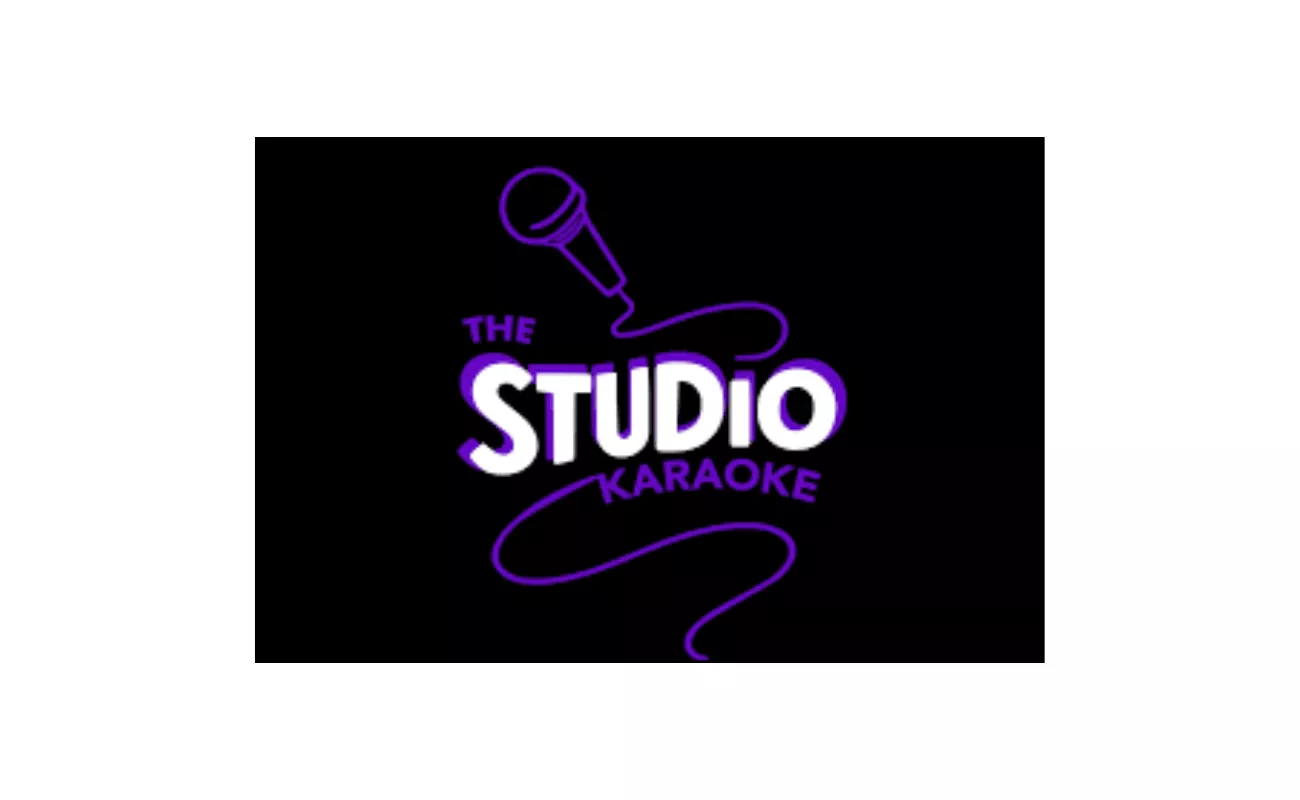
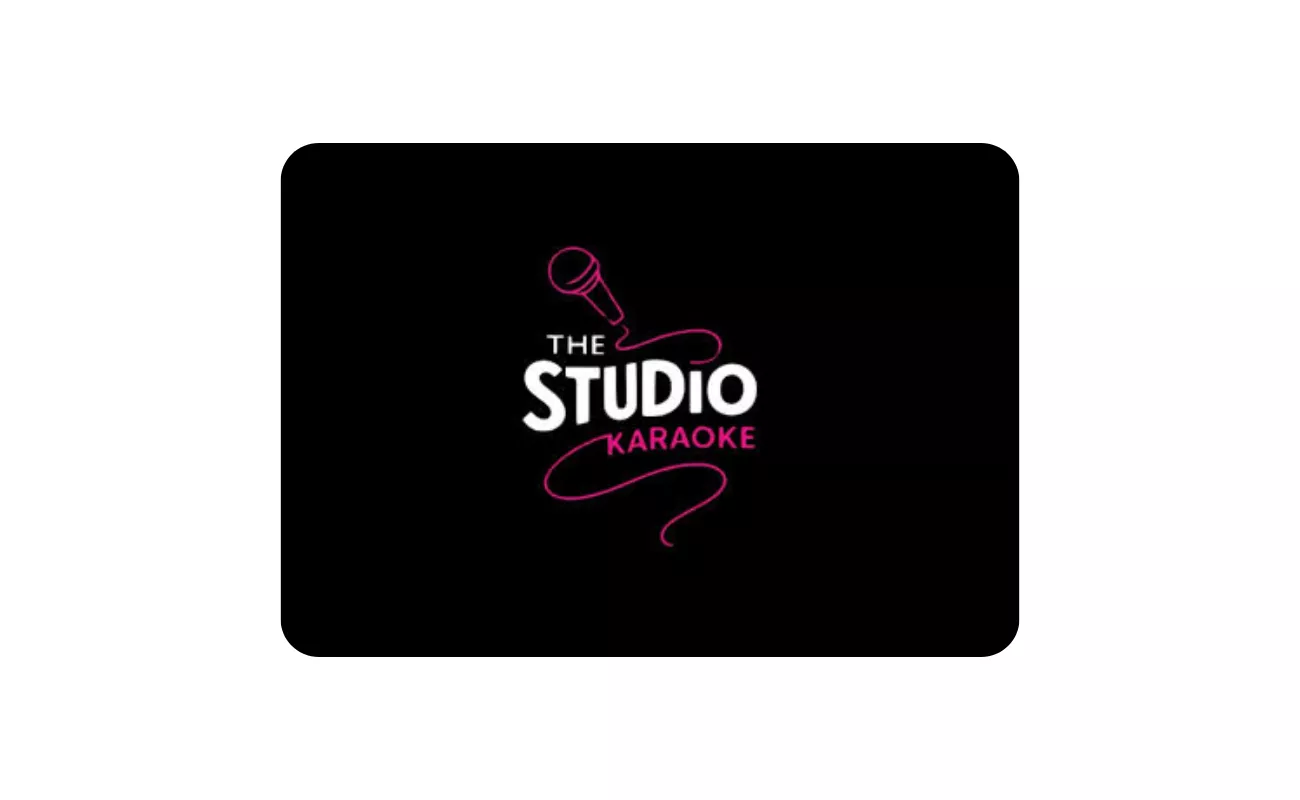
20FebTheStrongKaraoke
Long description of listing and correct logo

Changed region(s): [[0.1846, 0.1562, 0.8308, 0.8438], [0.3692, 0.6562, 0.4923, 0.75]]

diff --git a/lib/members/(t)/theStudioKaraoke.ts b/lib/members/(t)/theStudioKaraoke.ts
@@ -25,7 +25,11 @@ export const theStudioKaraoke : MembersListType = {
         'social experiences',
         'private party'
     ],
-    profileBusinessDescription : ``,
+    profileBusinessDescription : `<p><strong>The Studio Karaoke</strong> is a premier entertainment destination in Memphis, Tennessee, where music, fun, and community come together in a vibrant and social atmosphere. Known for its private karaoke suites, the venue provides an elevated alternative to traditional open-mic karaoke nights by offering guests their own sound-proofed spaces to sing, celebrate, and create unforgettable memories with friends, family, and colleagues.</p>
+                                <p>Centrally located in Poplar Plaza, The Studio Karaoke features a selection of private karaoke rooms that accommodate groups ranging from small gatherings to larger celebrations. Guests can choose from multiple suite sizes designed for comfort and excitement — perfect for birthdays, bachelorette parties, breaks from routine, team outings, or just a night out with a crew. During each session, visitors can explore an expansive karaoke song library, with options across genres and eras that cater to every musical taste.</p>
+                                <p>The Studio Karaoke’s environment is built around energy, celebration, and community connection. Each suite is equipped with high-quality audio and visual systems so guests can sing their favorite songs while enjoying food and beverages from the venue’s menu. Whether it’s snacks to fuel the fun or drinks to toast the night, The Studio Karaoke creates an all-inclusive entertainment experience.</p>
+                                <p>More than just a place to sing, <strong>The Studio Karaoke</strong> brings people together through shared experiences and lively social engagement. The venue sets the stage for good vibes, creative expression, and memorable group moments in a personalized setting where guests can feel comfortable and free to perform at their best.</p>
+                                <p>Committed to providing fun, safe, and joyful entertainment, The Studio Karaoke continues to grow as a go-to destination in Memphis for individuals and groups seeking private, music-infused celebrations.`,
     gallery : [
         { image : "/members/the-studio-karaoke/the-studio-karaoke-img1.webp", alt : "The Studio Karaoke Booth", width : 1024, height : 683 },
         { image : "/members/the-studio-karaoke/the-studio-karaoke-img2.webp", alt : "The Studio Karaoke Singing Girls", width : 1024, height : 683 },
